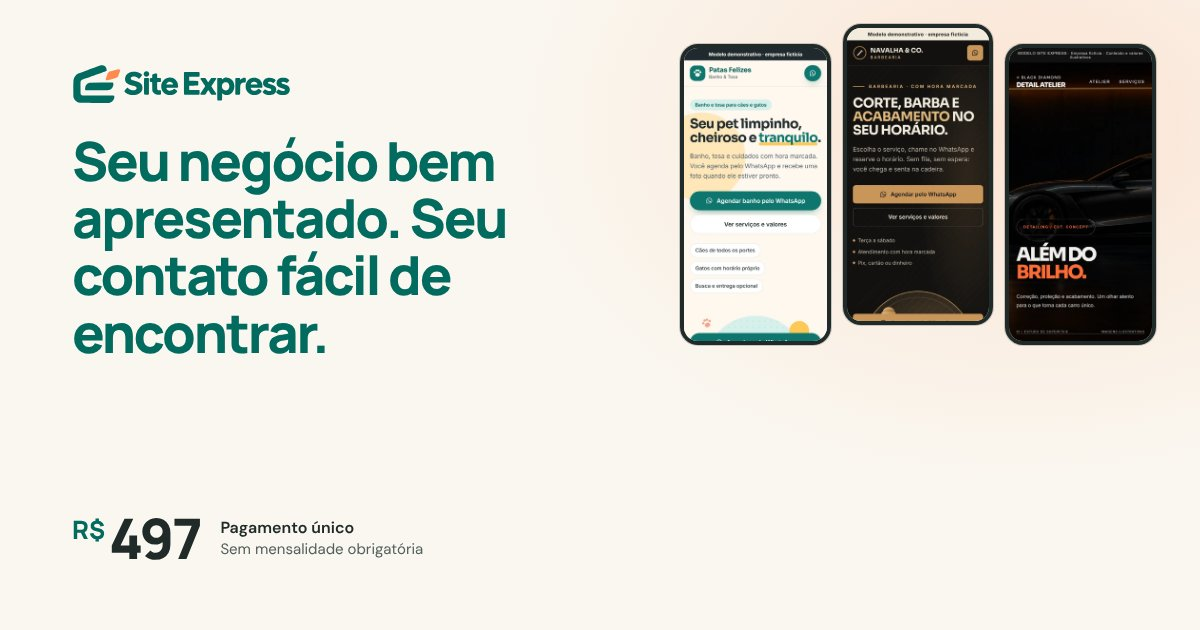
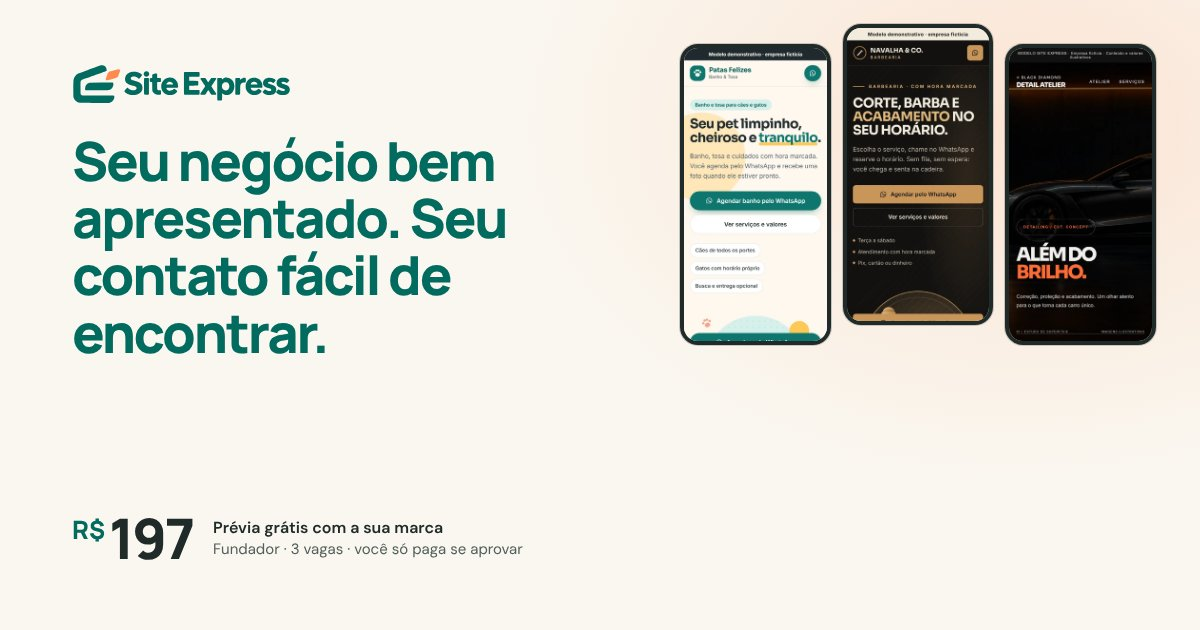
Landing: prévia grátis e preço de fundador R$197
Oferta alinhada aos posts novos do Instagram: prévia grátis com a marca
do cliente, sem entrada, paga só se aprovar; R$197 para as 3 primeiras
vagas (depoimento em troca), R$497 depois. Atualiza hero, faixa, etapas,
oferta, dúvidas, CTA final, mensagem do WhatsApp e imagem de
compartilhamento. Inclui prévias antes/depois em docs/.

Claude-Session: https://claude.ai/code/session_01B4bXDBdEbKPBcx2mgjKwHq

Changed region(s): [[0.0925, 0.8143, 0.4317, 0.9048]]

diff --git a/index.html b/index.html
@@ -5,15 +5,15 @@
   <meta name="viewport" content="width=device-width, initial-scale=1">
   <meta http-equiv="Content-Security-Policy" content="default-src 'self'; img-src 'self' data: https://www.facebook.com; script-src 'self' https://connect.facebook.net; style-src 'self'; font-src 'self'; connect-src https://www.facebook.com https://connect.facebook.net; object-src 'none'; base-uri 'self'; form-action 'none'">
   <meta name="referrer" content="strict-origin-when-cross-origin">
-  <title>Site Express · Sites profissionais para pequenos negócios por R$497</title>
-  <meta name="description" content="Seu negócio bem apresentado e seu contato fácil de encontrar: serviços, trabalhos, horários, endereço e WhatsApp em um site profissional feito para o celular. R$497, pagamento único, sem mensalidade obrigatória.">
+  <title>Site Express · Veja o site do seu negócio antes de pagar</title>
+  <meta name="description" content="Seu negócio bem apresentado e seu contato fácil de encontrar: serviços, trabalhos, horários, endereço e WhatsApp em um site profissional feito para o celular. Prévia grátis com a sua marca: você só paga se aprovar.">
   <link rel="canonical" href="https://vinriibeiro.github.io/site-express/">
   <meta name="theme-color" content="#FAF7F0">
   <meta property="og:type" content="website">
   <meta property="og:locale" content="pt_BR">
   <meta property="og:site_name" content="Site Express">
   <meta property="og:title" content="Site Express · Seu negócio bem apresentado">
-  <meta property="og:description" content="Serviços, trabalhos, informações e WhatsApp em um endereço profissional. Sites para pequenos negócios por R$497, pagamento único.">
+  <meta property="og:description" content="Serviços, trabalhos, informações e WhatsApp em um endereço profissional. Prévia grátis com a sua marca: você só paga se aprovar.">
   <meta property="og:url" content="https://vinriibeiro.github.io/site-express/">
   <meta property="og:image" content="https://vinriibeiro.github.io/site-express/assets/img/og.jpg">
   <meta property="og:image:width" content="1200">
@@ -43,7 +43,7 @@
         <a href="#oferta">Oferta</a>
         <a href="#duvidas">Dúvidas</a>
       </nav>
-      <a class="btn btn--sm btn--ghost" data-wa="cabecalho" href="https://wa.me/5561996113299?text=Ol%C3%A1%21%20Vi%20o%20site%20da%20Site%20Express%20e%20quero%20um%20site%20para%20o%20meu%20neg%C3%B3cio.%20Pode%20me%20explicar%20como%20come%C3%A7ar%3F" rel="noopener">
+      <a class="btn btn--sm btn--ghost" data-wa="cabecalho" href="https://wa.me/5561996113299?text=Ol%C3%A1%21%20Vi%20o%20site%20da%20Site%20Express%20e%20quero%20ver%20a%20pr%C3%A9via%20gr%C3%A1tis%20do%20site%20do%20meu%20neg%C3%B3cio." rel="noopener">
         <svg class="ico" viewBox="0 0 24 24" aria-hidden="true" focusable="false"><path d="M12 2.2a9.8 9.8 0 0 0-8.4 14.9L2.3 21.8l4.8-1.3A9.8 9.8 0 1 0 12 2.2Zm0 17.9a8.1 8.1 0 0 1-4.2-1.2l-.3-.2-2.8.8.8-2.8-.2-.3A8.1 8.1 0 1 1 12 20.1Zm4.5-6.1c-.2-.1-1.5-.7-1.7-.8s-.4-.1-.6.1l-.8 1c-.1.2-.3.2-.5.1a6.6 6.6 0 0 1-3.3-2.9c-.2-.4.2-.4.7-1.3.1-.2 0-.3 0-.4l-.8-1.8c-.2-.5-.4-.4-.6-.4h-.5a1 1 0 0 0-.7.3 3 3 0 0 0-.9 2.2 5.2 5.2 0 0 0 1.1 2.8 11.9 11.9 0 0 0 4.6 4c1.7.7 2.3.8 3.2.7a2.7 2.7 0 0 0 1.8-1.3 2.2 2.2 0 0 0 .1-1.3c0-.1-.2-.2-.4-.3Z" fill="currentColor"/></svg>
         <span><span class="so-largo">Falar no </span>WhatsApp</span>
       </a>
@@ -60,21 +60,21 @@
           <p class="hero__lead">Serviços, trabalhos, horários, endereço e WhatsApp em um endereço profissional, feito para o cliente entender o que você oferece e falar com você direto do celular.</p>
 
           <div class="preco" aria-label="Preço">
-            <p class="preco__valor"><span class="preco__moeda">R$</span>497</p>
+            <p class="preco__valor"><span class="preco__moeda">R$</span>197</p>
             <div class="preco__detalhe">
-              <p class="preco__unico">Pagamento único</p>
-              <p>R$250 de entrada + R$247 antes da publicação</p>
+              <p class="preco__unico">Preço de fundador · 3 primeiras vagas</p>
+              <p>Prévia grátis com a sua marca. Você só paga se aprovar. <span class="nw">Depois: R$497.</span></p>
             </div>
           </div>
 
           <div class="acoes">
-            <a class="btn btn--primario" data-wa="hero" href="https://wa.me/5561996113299?text=Ol%C3%A1%21%20Vi%20o%20site%20da%20Site%20Express%20e%20quero%20um%20site%20para%20o%20meu%20neg%C3%B3cio.%20Pode%20me%20explicar%20como%20come%C3%A7ar%3F" rel="noopener">
+            <a class="btn btn--primario" data-wa="hero" href="https://wa.me/5561996113299?text=Ol%C3%A1%21%20Vi%20o%20site%20da%20Site%20Express%20e%20quero%20ver%20a%20pr%C3%A9via%20gr%C3%A1tis%20do%20site%20do%20meu%20neg%C3%B3cio." rel="noopener">
               <svg class="ico" viewBox="0 0 24 24" aria-hidden="true" focusable="false"><path d="M12 2.2a9.8 9.8 0 0 0-8.4 14.9L2.3 21.8l4.8-1.3A9.8 9.8 0 1 0 12 2.2Zm0 17.9a8.1 8.1 0 0 1-4.2-1.2l-.3-.2-2.8.8.8-2.8-.2-.3A8.1 8.1 0 1 1 12 20.1Zm4.5-6.1c-.2-.1-1.5-.7-1.7-.8s-.4-.1-.6.1l-.8 1c-.1.2-.3.2-.5.1a6.6 6.6 0 0 1-3.3-2.9c-.2-.4.2-.4.7-1.3.1-.2 0-.3 0-.4l-.8-1.8c-.2-.5-.4-.4-.6-.4h-.5a1 1 0 0 0-.7.3 3 3 0 0 0-.9 2.2 5.2 5.2 0 0 0 1.1 2.8 11.9 11.9 0 0 0 4.6 4c1.7.7 2.3.8 3.2.7a2.7 2.7 0 0 0 1.8-1.3 2.2 2.2 0 0 0 .1-1.3c0-.1-.2-.2-.4-.3Z" fill="currentColor"/></svg>
-              <span>Quero meu site pelo WhatsApp</span>
+              <span>Quero ver minha prévia grátis</span>
             </a>
             <a class="btn btn--linha" href="#modelos">Ver modelos</a>
           </div>
-          <p class="hero__prazo">Site de uma página entregue em até <strong>24 horas úteis após confirmação da entrada e recebimento do briefing completo</strong>. Sem mensalidade obrigatória.</p>
+          <p class="hero__prazo">Prévia pronta em até <strong>24 horas úteis depois que você envia nome, logo ou foto e os serviços</strong>. Sem entrada e sem mensalidade obrigatória.</p>
         </div>
 
         <div class="hero__visual">
@@ -98,8 +98,8 @@
 
       <div class="wrap">
         <ul class="faixa" aria-label="Resumo da oferta">
-          <li><strong>R$497</strong><span>pagamento único</span></li>
-          <li><strong>24 horas úteis</strong><span>após entrada e briefing completo</span></li>
+          <li><strong>Prévia grátis</strong><span>com a sua marca, sem entrada</span></li>
+          <li><strong>24 horas úteis</strong><span>para a prévia, após o briefing</span></li>
           <li><strong>Sem mensalidade</strong><span>obrigatória</span></li>
           <li><strong>R$79/mês</strong><span>hospedagem e suporte, se quiser</span></li>
         </ul>
@@ -260,31 +260,31 @@
             <p class="sobretitulo">Como funciona</p>
             <h2 id="passos-titulo" class="titulo">Do primeiro contato ao site no ar, em quatro etapas.</h2>
           </div>
-          <p class="texto cabeca__texto">Você sabe o que acontece em cada etapa e quando cada parte do pagamento entra.</p>
+          <p class="texto cabeca__texto">Você vê o site pronto antes de pagar qualquer coisa. Se não gostar, não paga.</p>
         </div>
 
         <ol class="passos">
           <li class="passo revelar">
             <span class="passo__num" aria-hidden="true">01</span>
             <h3>Contato</h3>
-            <p>Você me chama no WhatsApp, conta sobre o seu negócio e diz qual estilo de modelo prefere. As dúvidas se resolvem aqui, antes de qualquer pagamento.</p>
+            <p>Você me chama no WhatsApp, conta sobre o seu negócio e diz qual estilo de modelo prefere.</p>
           </li>
           <li class="passo revelar">
             <span class="passo__num" aria-hidden="true">02</span>
-            <h3>Entrada e briefing</h3>
-            <p>Você paga a entrada e envia o briefing: logo, fotos, serviços ou produtos, endereço ou região, horários e contatos.</p>
-            <p class="passo__valor">Entrada · R$250</p>
+            <h3>Briefing</h3>
+            <p>Você envia logo ou foto, serviços ou produtos, endereço ou região, horários e contatos. Não precisa pagar nada para começar.</p>
+            <p class="passo__valor">Sem entrada</p>
           </li>
           <li class="passo revelar">
             <span class="passo__num" aria-hidden="true">03</span>
-            <h3>Criação e revisão</h3>
-            <p>Eu monto o site com a sua identidade em até 24 horas úteis após confirmação da entrada e recebimento do briefing completo. Você recebe a prévia para revisar.</p>
+            <h3>Prévia grátis</h3>
+            <p>Em até 24 horas úteis após o briefing, você recebe o link da prévia com a sua marca para ver no celular e pedir ajustes.</p>
           </li>
           <li class="passo revelar">
             <span class="passo__num" aria-hidden="true">04</span>
-            <h3>Saldo e publicação</h3>
-            <p>Com a prévia revisada, você paga o saldo e o site é publicado.</p>
-            <p class="passo__valor">Antes da publicação · R$247</p>
+            <h3>Aprovação e publicação</h3>
+            <p>Gostou? Você paga e o site é publicado. Não gostou? Não paga nada.</p>
+            <p class="passo__valor">Fundador · R$197</p>
           </li>
         </ol>
       </div>
@@ -297,15 +297,16 @@
           <div class="oferta__preco">
             <p class="sobretitulo">A oferta</p>
             <h2 id="oferta-titulo" class="titulo titulo--sm">Site personalizado para o seu negócio</h2>
-            <p class="oferta__valor"><span class="preco__moeda">R$</span>497</p>
-            <p class="oferta__unico">Pagamento único</p>
+            <p class="oferta__valor"><span class="preco__moeda">R$</span>197</p>
+            <p class="oferta__unico">Preço de fundador · pagamento único</p>
             <dl class="parcelas">
-              <div><dt>Entrada</dt><dd>R$250</dd></div>
-              <div><dt>Antes da publicação</dt><dd>R$247</dd></div>
+              <div><dt>Prévia com a sua marca</dt><dd>Grátis</dd></div>
+              <div><dt>Fundador (3 primeiras vagas)</dt><dd>R$197</dd></div>
+              <div><dt>Preço normal depois</dt><dd>R$497</dd></div>
             </dl>
-            <a class="btn btn--primario btn--largo" data-wa="oferta" href="https://wa.me/5561996113299?text=Ol%C3%A1%21%20Vi%20o%20site%20da%20Site%20Express%20e%20quero%20um%20site%20para%20o%20meu%20neg%C3%B3cio.%20Pode%20me%20explicar%20como%20come%C3%A7ar%3F" rel="noopener">
+            <a class="btn btn--primario btn--largo" data-wa="oferta" href="https://wa.me/5561996113299?text=Ol%C3%A1%21%20Vi%20o%20site%20da%20Site%20Express%20e%20quero%20ver%20a%20pr%C3%A9via%20gr%C3%A1tis%20do%20site%20do%20meu%20neg%C3%B3cio." rel="noopener">
               <svg class="ico" viewBox="0 0 24 24" aria-hidden="true" focusable="false"><path d="M12 2.2a9.8 9.8 0 0 0-8.4 14.9L2.3 21.8l4.8-1.3A9.8 9.8 0 1 0 12 2.2Zm0 17.9a8.1 8.1 0 0 1-4.2-1.2l-.3-.2-2.8.8.8-2.8-.2-.3A8.1 8.1 0 1 1 12 20.1Zm4.5-6.1c-.2-.1-1.5-.7-1.7-.8s-.4-.1-.6.1l-.8 1c-.1.2-.3.2-.5.1a6.6 6.6 0 0 1-3.3-2.9c-.2-.4.2-.4.7-1.3.1-.2 0-.3 0-.4l-.8-1.8c-.2-.5-.4-.4-.6-.4h-.5a1 1 0 0 0-.7.3 3 3 0 0 0-.9 2.2 5.2 5.2 0 0 0 1.1 2.8 11.9 11.9 0 0 0 4.6 4c1.7.7 2.3.8 3.2.7a2.7 2.7 0 0 0 1.8-1.3 2.2 2.2 0 0 0 .1-1.3c0-.1-.2-.2-.4-.3Z" fill="currentColor"/></svg>
-              <span>Começar pelo WhatsApp</span>
+              <span>Quero ver minha prévia grátis</span>
             </a>
           </div>
 
@@ -319,7 +320,10 @@
             </ul>
 
             <h3 class="oferta__sub">Prazo</h3>
-            <p>Entrega em até <strong>24 horas úteis após confirmação da entrada e recebimento do briefing completo</strong>.</p>
+            <p>Prévia em até <strong>24 horas úteis após o recebimento do briefing completo</strong>. Você só paga se aprovar.</p>
+
+            <h3 class="oferta__sub">Condição de fundador</h3>
+            <p>As 3 primeiras vagas saem por R$197 em troca de um depoimento sobre o atendimento e a permissão para mostrar o site como trabalho entregue.</p>
 
             <h3 class="oferta__sub">Depois de publicado</h3>
             <p><strong>Sem mensalidade obrigatória.</strong> Se preferir que eu cuide da hospedagem e do suporte, existe o plano opcional de <strong>R$79/mês</strong>.</p>
@@ -341,25 +345,25 @@
           <details>
             <summary>Atende o meu tipo de negócio?</summary>
             <div class="faq__resposta">
-              <p>O formato serve para pequenos negócios e profissionais que atendem clientes e recebem contatos pelo WhatsApp: barbearias, salões, pet shops, confeitarias, estéticas automotivas, prestadores de serviço e outros. Conte o que você faz e eu digo, antes de qualquer pagamento, se o site de uma página atende.</p>
+              <p>O formato serve para pequenos negócios e profissionais que atendem clientes e recebem contatos pelo WhatsApp: barbearias, salões, pet shops, confeitarias, estéticas automotivas, prestadores de serviço e outros. Conte o que você faz e eu digo se o site de uma página atende.</p>
             </div>
           </details>
           <details>
             <summary>Em quanto tempo o site fica pronto?</summary>
             <div class="faq__resposta">
-              <p>Em até 24 horas úteis após confirmação da entrada e recebimento do briefing completo. O prazo começa a contar quando as duas coisas estão confirmadas. Ele vale para o site de uma página no formato dos modelos; loja virtual, agendamento online ou várias páginas ficam fora desse formato e são conversados antes.</p>
+              <p>A prévia fica pronta em até 24 horas úteis após o recebimento do briefing completo. Ele vale para o site de uma página no formato dos modelos; loja virtual, agendamento online ou várias páginas ficam fora desse formato e são conversados antes.</p>
             </div>
           </details>
           <details>
             <summary>Como funciona o pagamento?</summary>
             <div class="faq__resposta">
-              <p>O valor é R$497, em pagamento único, dividido em duas partes: R$250 de entrada, para começar, e R$247 antes da publicação do site.</p>
+              <p>Você não paga nada para começar. Primeiro recebe a prévia grátis com a sua marca. Se aprovar, paga uma vez só e o site é publicado: R$197 para as 3 primeiras vagas de fundador, R$497 depois delas. Se não aprovar, não paga.</p>
             </div>
           </details>
           <details>
             <summary>O que eu preciso enviar?</summary>
             <div class="faq__resposta">
-              <p>O briefing reúne o conteúdo do site: nome e logo do negócio, os serviços ou produtos que você quer mostrar (com valores, se quiser), fotos dos seus trabalhos, endereço ou região de atendimento, horários, WhatsApp e Instagram. O prazo de entrega conta a partir do briefing completo.</p>
+              <p>O briefing reúne o conteúdo do site: nome e logo do negócio, os serviços ou produtos que você quer mostrar (com valores, se quiser), fotos dos seus trabalhos, endereço ou região de atendimento, horários, WhatsApp e Instagram. O prazo da prévia conta a partir do briefing completo.</p>
             </div>
           </details>
           <details>
@@ -371,7 +375,7 @@
           <details>
             <summary>Quando e como o site é publicado?</summary>
             <div class="faq__resposta">
-              <p>Depois que você revisa a prévia e paga o saldo de R$247, o site é publicado e você recebe o link para divulgar no Instagram, no Google, no WhatsApp e onde mais quiser. Os detalhes da publicação são combinados com você pelo WhatsApp.</p>
+              <p>Depois que você aprova a prévia e faz o pagamento, o site é publicado e você recebe o link para divulgar no Instagram, no Google, no WhatsApp e onde mais quiser. Os detalhes da publicação são combinados com você pelo WhatsApp.</p>
             </div>
           </details>
           <details>
@@ -408,8 +412,8 @@
     <section class="final final--sem-foto" aria-labelledby="final-titulo">
       <div class="wrap final__in">
         <h2 id="final-titulo" class="final__titulo">Mostre o seu trabalho do jeito que ele merece.</h2>
-        <p class="final__texto">Me chame no WhatsApp, conte sobre o seu negócio e veja como começar. R$497, pagamento único.</p>
-        <a class="btn btn--primario btn--grande" data-wa="final" href="https://wa.me/5561996113299?text=Ol%C3%A1%21%20Vi%20o%20site%20da%20Site%20Express%20e%20quero%20um%20site%20para%20o%20meu%20neg%C3%B3cio.%20Pode%20me%20explicar%20como%20come%C3%A7ar%3F" rel="noopener">
+        <p class="final__texto">Me chame no WhatsApp, conte sobre o seu negócio e receba a prévia grátis com a sua marca. Você só paga se aprovar.</p>
+        <a class="btn btn--primario btn--grande" data-wa="final" href="https://wa.me/5561996113299?text=Ol%C3%A1%21%20Vi%20o%20site%20da%20Site%20Express%20e%20quero%20ver%20a%20pr%C3%A9via%20gr%C3%A1tis%20do%20site%20do%20meu%20neg%C3%B3cio." rel="noopener">
           <svg class="ico" viewBox="0 0 24 24" aria-hidden="true" focusable="false"><path d="M12 2.2a9.8 9.8 0 0 0-8.4 14.9L2.3 21.8l4.8-1.3A9.8 9.8 0 1 0 12 2.2Zm0 17.9a8.1 8.1 0 0 1-4.2-1.2l-.3-.2-2.8.8.8-2.8-.2-.3A8.1 8.1 0 1 1 12 20.1Zm4.5-6.1c-.2-.1-1.5-.7-1.7-.8s-.4-.1-.6.1l-.8 1c-.1.2-.3.2-.5.1a6.6 6.6 0 0 1-3.3-2.9c-.2-.4.2-.4.7-1.3.1-.2 0-.3 0-.4l-.8-1.8c-.2-.5-.4-.4-.6-.4h-.5a1 1 0 0 0-.7.3 3 3 0 0 0-.9 2.2 5.2 5.2 0 0 0 1.1 2.8 11.9 11.9 0 0 0 4.6 4c1.7.7 2.3.8 3.2.7a2.7 2.7 0 0 0 1.8-1.3 2.2 2.2 0 0 0 .1-1.3c0-.1-.2-.2-.4-.3Z" fill="currentColor"/></svg>
           <span>Conversar no WhatsApp</span>
         </a>
@@ -428,7 +432,7 @@
       <div>
         <h2 class="rodape__titulo">Contato</h2>
         <ul class="rodape__lista">
-          <li><a data-wa="rodape" href="https://wa.me/5561996113299?text=Ol%C3%A1%21%20Vi%20o%20site%20da%20Site%20Express%20e%20quero%20um%20site%20para%20o%20meu%20neg%C3%B3cio.%20Pode%20me%20explicar%20como%20come%C3%A7ar%3F" rel="noopener">WhatsApp (61) 99611-3299</a></li>
+          <li><a data-wa="rodape" href="https://wa.me/5561996113299?text=Ol%C3%A1%21%20Vi%20o%20site%20da%20Site%20Express%20e%20quero%20ver%20a%20pr%C3%A9via%20gr%C3%A1tis%20do%20site%20do%20meu%20neg%C3%B3cio." rel="noopener">WhatsApp (61) 99611-3299</a></li>
           <li><a href="https://www.instagram.com/site.expressos/" target="_blank" rel="noopener">Instagram @site.expressos <span class="sr">(abre em nova aba)</span></a></li>
         </ul>
       </div>
@@ -456,9 +460,9 @@
     </div>
   </div>
 
-  <a class="flutuante" data-wa="flutuante" href="https://wa.me/5561996113299?text=Ol%C3%A1%21%20Vi%20o%20site%20da%20Site%20Express%20e%20quero%20um%20site%20para%20o%20meu%20neg%C3%B3cio.%20Pode%20me%20explicar%20como%20come%C3%A7ar%3F" rel="noopener">
+  <a class="flutuante" data-wa="flutuante" href="https://wa.me/5561996113299?text=Ol%C3%A1%21%20Vi%20o%20site%20da%20Site%20Express%20e%20quero%20ver%20a%20pr%C3%A9via%20gr%C3%A1tis%20do%20site%20do%20meu%20neg%C3%B3cio." rel="noopener">
     <svg class="ico" viewBox="0 0 24 24" aria-hidden="true" focusable="false"><path d="M12 2.2a9.8 9.8 0 0 0-8.4 14.9L2.3 21.8l4.8-1.3A9.8 9.8 0 1 0 12 2.2Zm0 17.9a8.1 8.1 0 0 1-4.2-1.2l-.3-.2-2.8.8.8-2.8-.2-.3A8.1 8.1 0 1 1 12 20.1Zm4.5-6.1c-.2-.1-1.5-.7-1.7-.8s-.4-.1-.6.1l-.8 1c-.1.2-.3.2-.5.1a6.6 6.6 0 0 1-3.3-2.9c-.2-.4.2-.4.7-1.3.1-.2 0-.3 0-.4l-.8-1.8c-.2-.5-.4-.4-.6-.4h-.5a1 1 0 0 0-.7.3 3 3 0 0 0-.9 2.2 5.2 5.2 0 0 0 1.1 2.8 11.9 11.9 0 0 0 4.6 4c1.7.7 2.3.8 3.2.7a2.7 2.7 0 0 0 1.8-1.3 2.2 2.2 0 0 0 .1-1.3c0-.1-.2-.2-.4-.3Z" fill="currentColor"/></svg>
-    <span>Site por R$497 · Falar no WhatsApp</span>
+    <span>Prévia grátis · Falar no WhatsApp</span>
   </a>
 </body>
 </html>

diff --git a/tools/og.html b/tools/og.html
@@ -22,8 +22,8 @@
       <span class="marca"><img class="marca__logo" src="../assets/img/marca/logo-horizontal-verde.svg" alt="" style="height:40px"></span>
       <h1>Seu negócio bem apresentado. Seu contato fácil de encontrar.</h1>
       <div class="preco">
-        <p class="preco__valor"><span class="preco__moeda">R$</span>497</p>
-        <div class="preco__detalhe"><p class="preco__unico">Pagamento único</p><p>Sem mensalidade obrigatória</p></div>
+        <p class="preco__valor"><span class="preco__moeda">R$</span>197</p>
+        <div class="preco__detalhe"><p class="preco__unico">Prévia grátis com a sua marca</p><p>Fundador · 3 vagas · você só paga se aprovar</p></div>
       </div>
     </div>
     <div class="og__trio"><img src="../assets/img/demo-patas-felizes-banho-tosa-mobile-600.webp" alt=""><img src="../assets/img/demo-navalha-co-barbearia-mobile-600.webp" alt=""><img src="../assets/img/colecao-black-diamond-detail-mobile-600.webp" alt=""></div>
